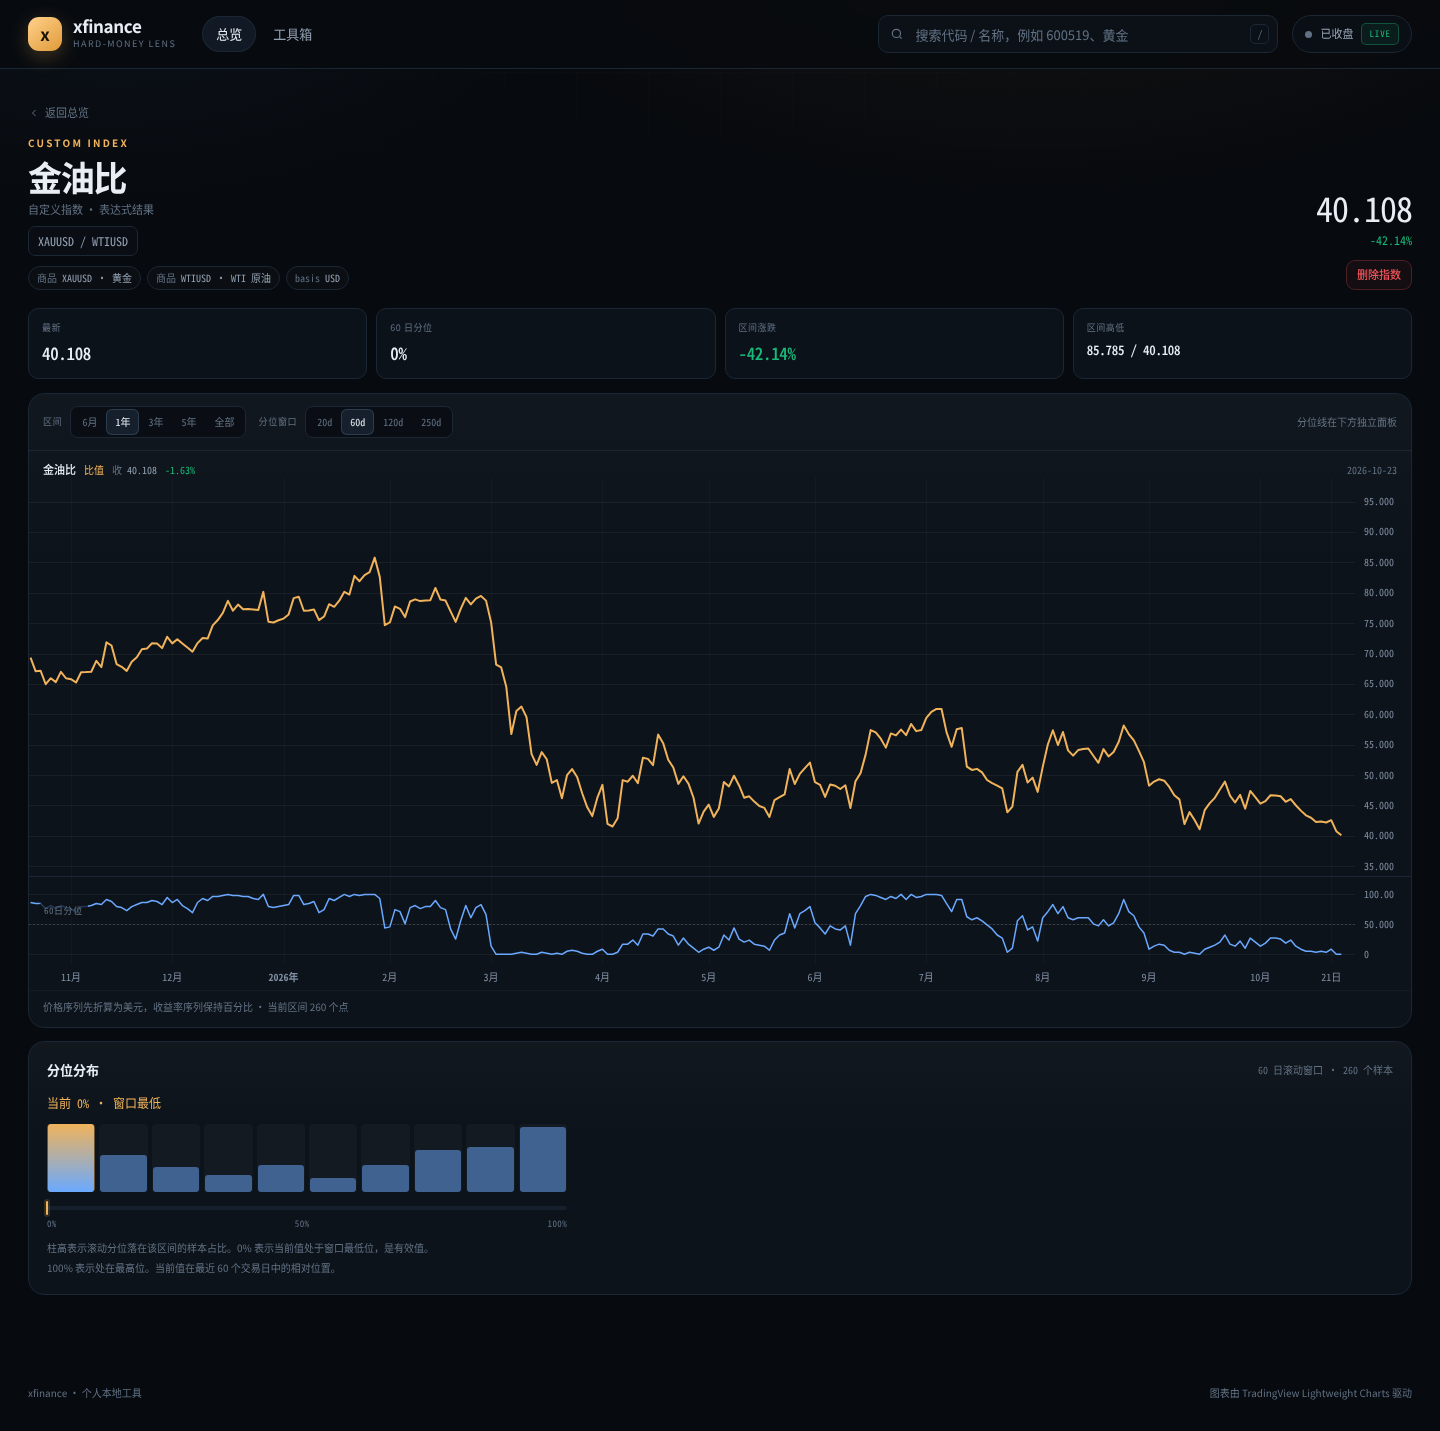
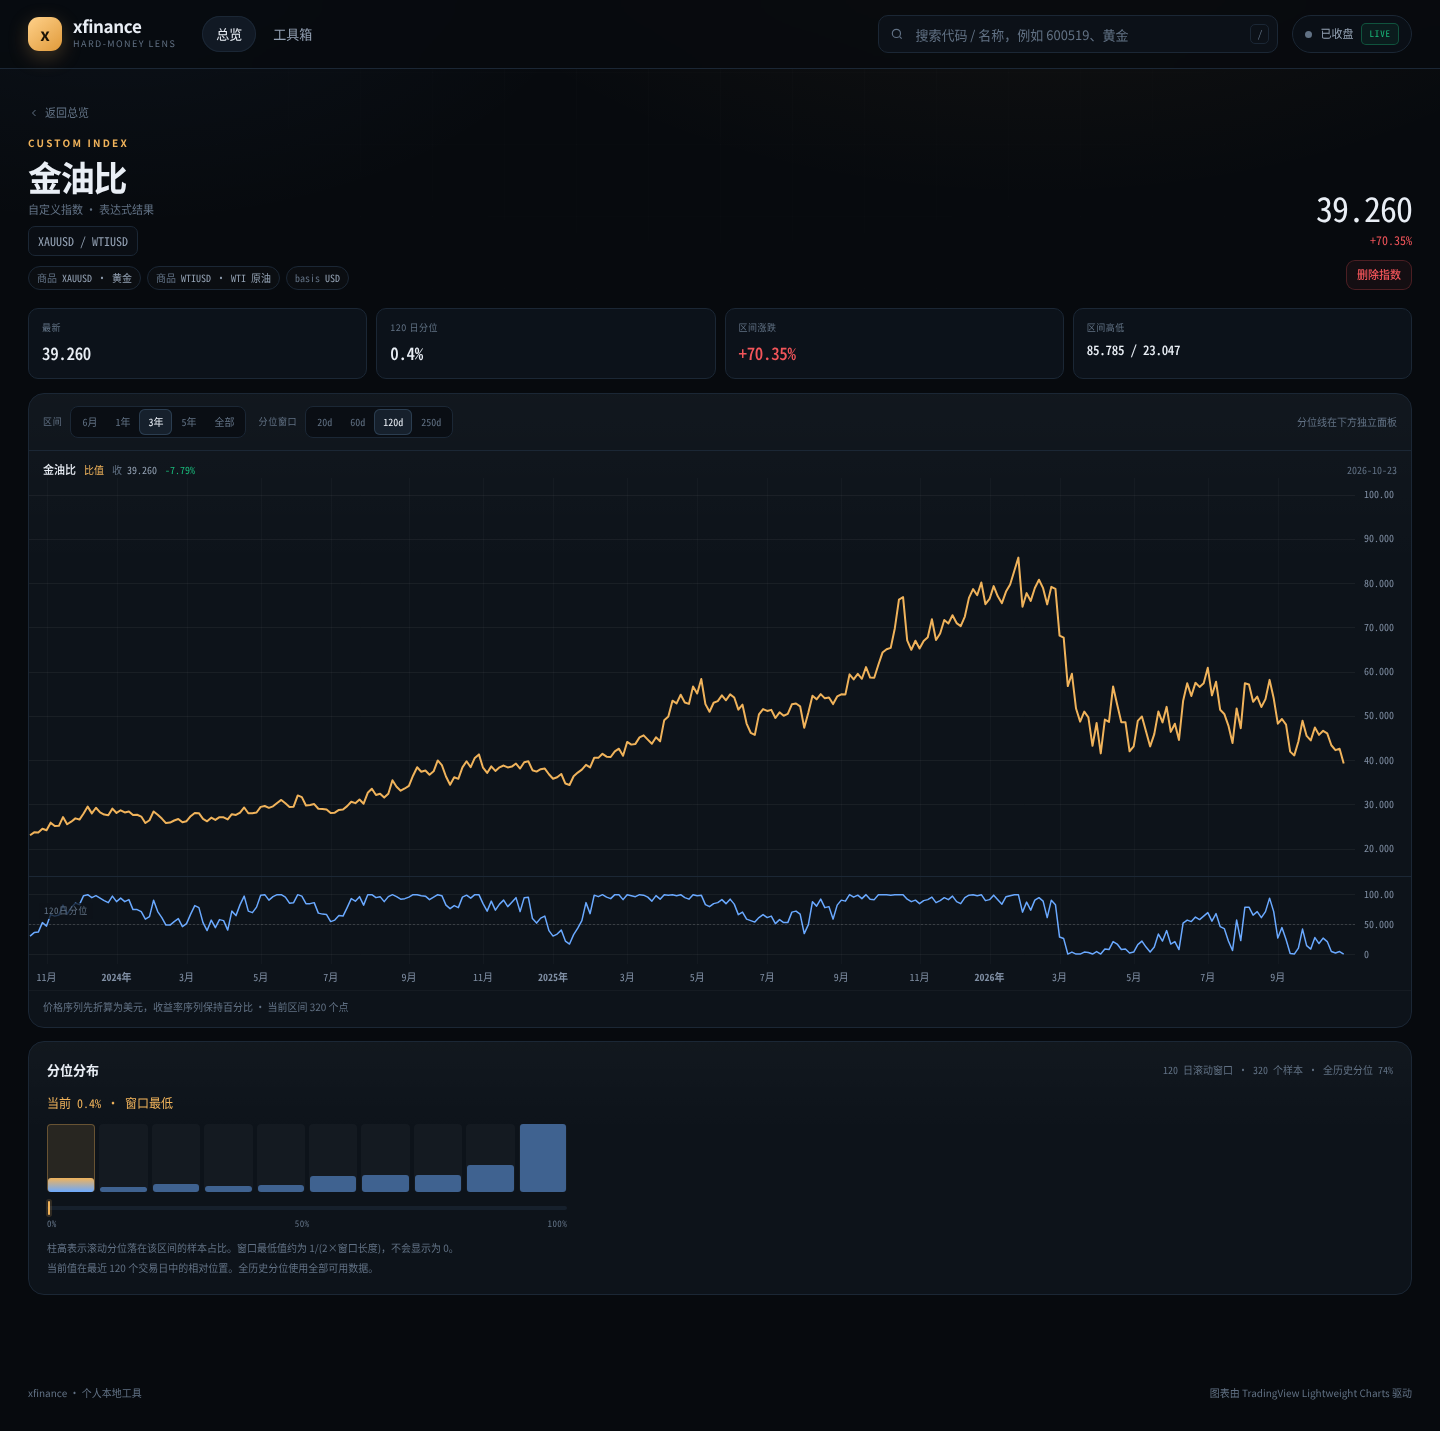
Use mean-rank percentiles and show full-history context

diff --git a/frontend/src/views/CustomIndexView.vue b/frontend/src/views/CustomIndexView.vue
@@ -60,12 +60,23 @@ const activeBin = computed(() =>
   currentPercentile.value === null ? -1 : Math.min(9, Math.floor(currentPercentile.value / 10)),
 )
 
+const historyPercentile = computed(() => {
+  const value = stats.value?.history_percentile
+  return typeof value === 'number' && Number.isFinite(value) ? value : null
+})
+
+function formatPercentile(value) {
+  if (typeof value !== 'number' || !Number.isFinite(value)) return '—'
+  return value < 10 ? value.toFixed(1) : value.toFixed(0)
+}
+
 const percentileState = computed(() => {
   const value = currentPercentile.value
   if (value === null) return '分位数据不足'
-  if (value === 0) return '当前 0% · 窗口最低'
-  if (value === 100) return '当前 100% · 窗口最高'
-  return `当前 ${value.toFixed(0)}% · 近 ${windowSize.value} 日分位`
+  const text = `当前 ${formatPercentile(value)}%`
+  if (stats.value?.window_low) return `${text} · 窗口最低`
+  if (stats.value?.window_high) return `${text} · 窗口最高`
+  return `${text} · 近 ${windowSize.value} 日分位`
 })
 
 async function load() {
@@ -161,7 +172,7 @@ onBeforeUnmount(() => {
         <div class="metric"><span>最新</span><strong>{{ fmtPrice(stats?.last) }}</strong></div>
         <div class="metric">
           <span>{{ windowSize }} 日分位</span>
-          <strong>{{ currentPercentile === null ? '—' : currentPercentile.toFixed(0) + '%' }}</strong>
+          <strong>{{ currentPercentile === null ? '—' : formatPercentile(currentPercentile) + '%' }}</strong>
         </div>
         <div class="metric"><span>区间涨跌</span><strong :class="tone(stats?.change_pct)">{{ fmtPct(stats?.change_pct) }}</strong></div>
         <div class="metric"><span>区间高低</span><strong style="font-size: 13px">{{ fmtPrice(stats?.high) }} / {{ fmtPrice(stats?.low) }}</strong></div>
@@ -227,6 +238,9 @@ onBeforeUnmount(() => {
           <h2 class="panel-title">分位分布</h2>
           <span class="panel-sub">
             {{ windowSize }} 日滚动窗口 · {{ percentileSamples.length }} 个样本
+            <template v-if="historyPercentile !== null">
+              · 全历史分位 {{ formatPercentile(historyPercentile) }}%
+            </template>
           </span>
         </div>
         <div class="pct-current">{{ percentileState }}</div>
@@ -260,10 +274,10 @@ onBeforeUnmount(() => {
           <span>100%</span>
         </div>
         <div class="tool-hint pct-caption">
-          柱高表示滚动分位落在该区间的样本占比。0% 表示当前值处于窗口最低位，是有效值。
+          柱高表示滚动分位落在该区间的样本占比。窗口最低值约为 1/(2×窗口长度)，不会显示为 0。
         </div>
         <div class="tool-hint" style="margin-top: 4px">
-          100% 表示处在最高位。当前值在最近 {{ windowSize }} 个交易日中的相对位置。
+          当前值在最近 {{ windowSize }} 个交易日中的相对位置。全历史分位使用全部可用数据。
         </div>
       </section>
     </template>

diff --git a/app/services/expressions.py b/app/services/expressions.py
@@ -131,6 +131,10 @@ class ExpressionService:
         first = values[0]
         last = values[-1]
         current_percentile = percentile_of_last(resolved.series.values, window)
+        window_values = resolved.series.values[-window:]
+        history_percentile = percentile_of_last(
+            resolved.series.values, len(resolved.series.values)
+        )
         payload = {
             "meta": {
                 "id": record.id,
@@ -162,6 +166,9 @@ class ExpressionService:
                 "high": max(values),
                 "low": min(values),
                 "percentile": current_percentile,
+                "window_low": last <= min(window_values),
+                "window_high": last >= max(window_values),
+                "history_percentile": history_percentile,
                 "points": len(values),
             },
             "references": list(resolved.references),

diff --git a/app/domain/stats.py b/app/domain/stats.py
@@ -280,13 +280,17 @@ def percentile_of_last(values: Sequence[float], window: int) -> float | None:
 
 
 def _rank_percentile(sample: Sequence[float]) -> float:
-    """Rank percentile with the current sample included; min=0, max=100."""
+    """Mean-rank percentile with the current sample included.
+
+    A valid observation never gets exactly 0. The minimum is about 1/(2n)%
+    and the maximum is just below 100%, so 0 can stay reserved for missing data.
+    """
     current = sample[-1]
     below = sum(1 for item in sample if item < current)
     equal = sum(1 for item in sample if item == current)
     if len(sample) < 2:
         return 50.0
-    return (below + 0.5 * (equal - 1)) / (len(sample) - 1) * 100.0
+    return (below + 0.5 * equal) / len(sample) * 100.0
 
 
 def bucket_end_indices(length: int, target: int) -> list[int]:

diff --git a/tests/test_stats.py b/tests/test_stats.py
@@ -122,10 +122,10 @@ def test_rolling_percentile() -> None:
     values = [1.0, 2.0, 3.0, 0.0]
     result = rolling_percentile(values, 3)
     assert result[0] is None
-    assert result[1] == pytest.approx(100.0)
-    assert result[2] == pytest.approx(100.0)
-    assert result[3] == pytest.approx(0.0)
-    assert percentile_of_last(values, 3) == pytest.approx(0.0)
+    assert result[1] == pytest.approx(75.0)
+    assert result[2] == pytest.approx(250.0 / 3.0)
+    assert result[3] == pytest.approx(100.0 / 6.0)
+    assert percentile_of_last(values, 3) == pytest.approx(100.0 / 6.0)
 
 
 def test_bucket_indices_cover_every_sample() -> None:

diff --git a/tests/test_api.py b/tests/test_api.py
@@ -312,7 +312,11 @@ def test_custom_index_percentile_matches_last_series_value(client: TestClient) -
     ).json()["data"]
     values = [value for value in payload["percentile"] if value is not None]
     assert values
-    assert payload["stats"]["percentile"] == pytest.approx(values[-1])
+    stats = payload["stats"]
+    assert stats["percentile"] == pytest.approx(values[-1])
+    assert stats["window_low"] in (True, False)
+    assert stats["window_high"] in (True, False)
+    assert 0 <= stats["history_percentile"] <= 100
     client.delete(f"/api/custom-indices/{index_id}")
 
 

diff --git a/PLAN.md b/PLAN.md
@@ -175,4 +175,4 @@ SQLite WAL + busy_timeout。迁移由 Alembic 管理，启动时 upgrade head。
 | --- | --- | --- | --- |
 | 计价缺少重置，换标的后沿用旧计价 | 计价物写入 localStorage，跨标的复用 | 换标的时默认跟随标的原生货币，找不到对应计价物时回到人民币，并关闭归一化。工具栏加“重置”按钮，不再持久化计价物 | 同一 SPA 会话从 SH600519 的 XAU 切到 XAUUSD 后选中项回到 USD；XAUUSD 手动选 XAU 后重置回到 USD |
 | 上海金进去是一条直线 | 上金所金被选成了“上金所金”自身计价，AU9999 除以自己恒为 1 | 同上；另加恒定价格提示，避免手动选择同一资产时误判为数据缺失 | 直线场景显示警告，重置后恢复 864.00 元/克 |
-| 自定义指数底部分位始终为 0 | 当前值确实处于 60 日窗口最低位，单条进度条宽度为 0 时看起来像坏了 | 改为 10 档滚动分位直方图加 0 到 100 的当前位置刻度，0 和 100 都有可见标记，并标注窗口最低或最高 | 下跌指数显示 0% 与直方图，上涨指数显示 100% 与右端标记 |
+| 自定义指数底部分位始终为 0 | 当前值确实处于 60 日窗口最低位，单条进度条宽度为 0 时看起来像坏了 | 改为 10 档滚动分位直方图加当前位置刻度，并改用均值排名，最低值约为 1/(2×窗口长度) 而不是 0；同时显示全历史分位做上下文 | 金油比 120 日窗口显示当前 0.4% 与窗口最低，全历史分位 74%；上涨指数显示接近 100% 与右端标记 |
